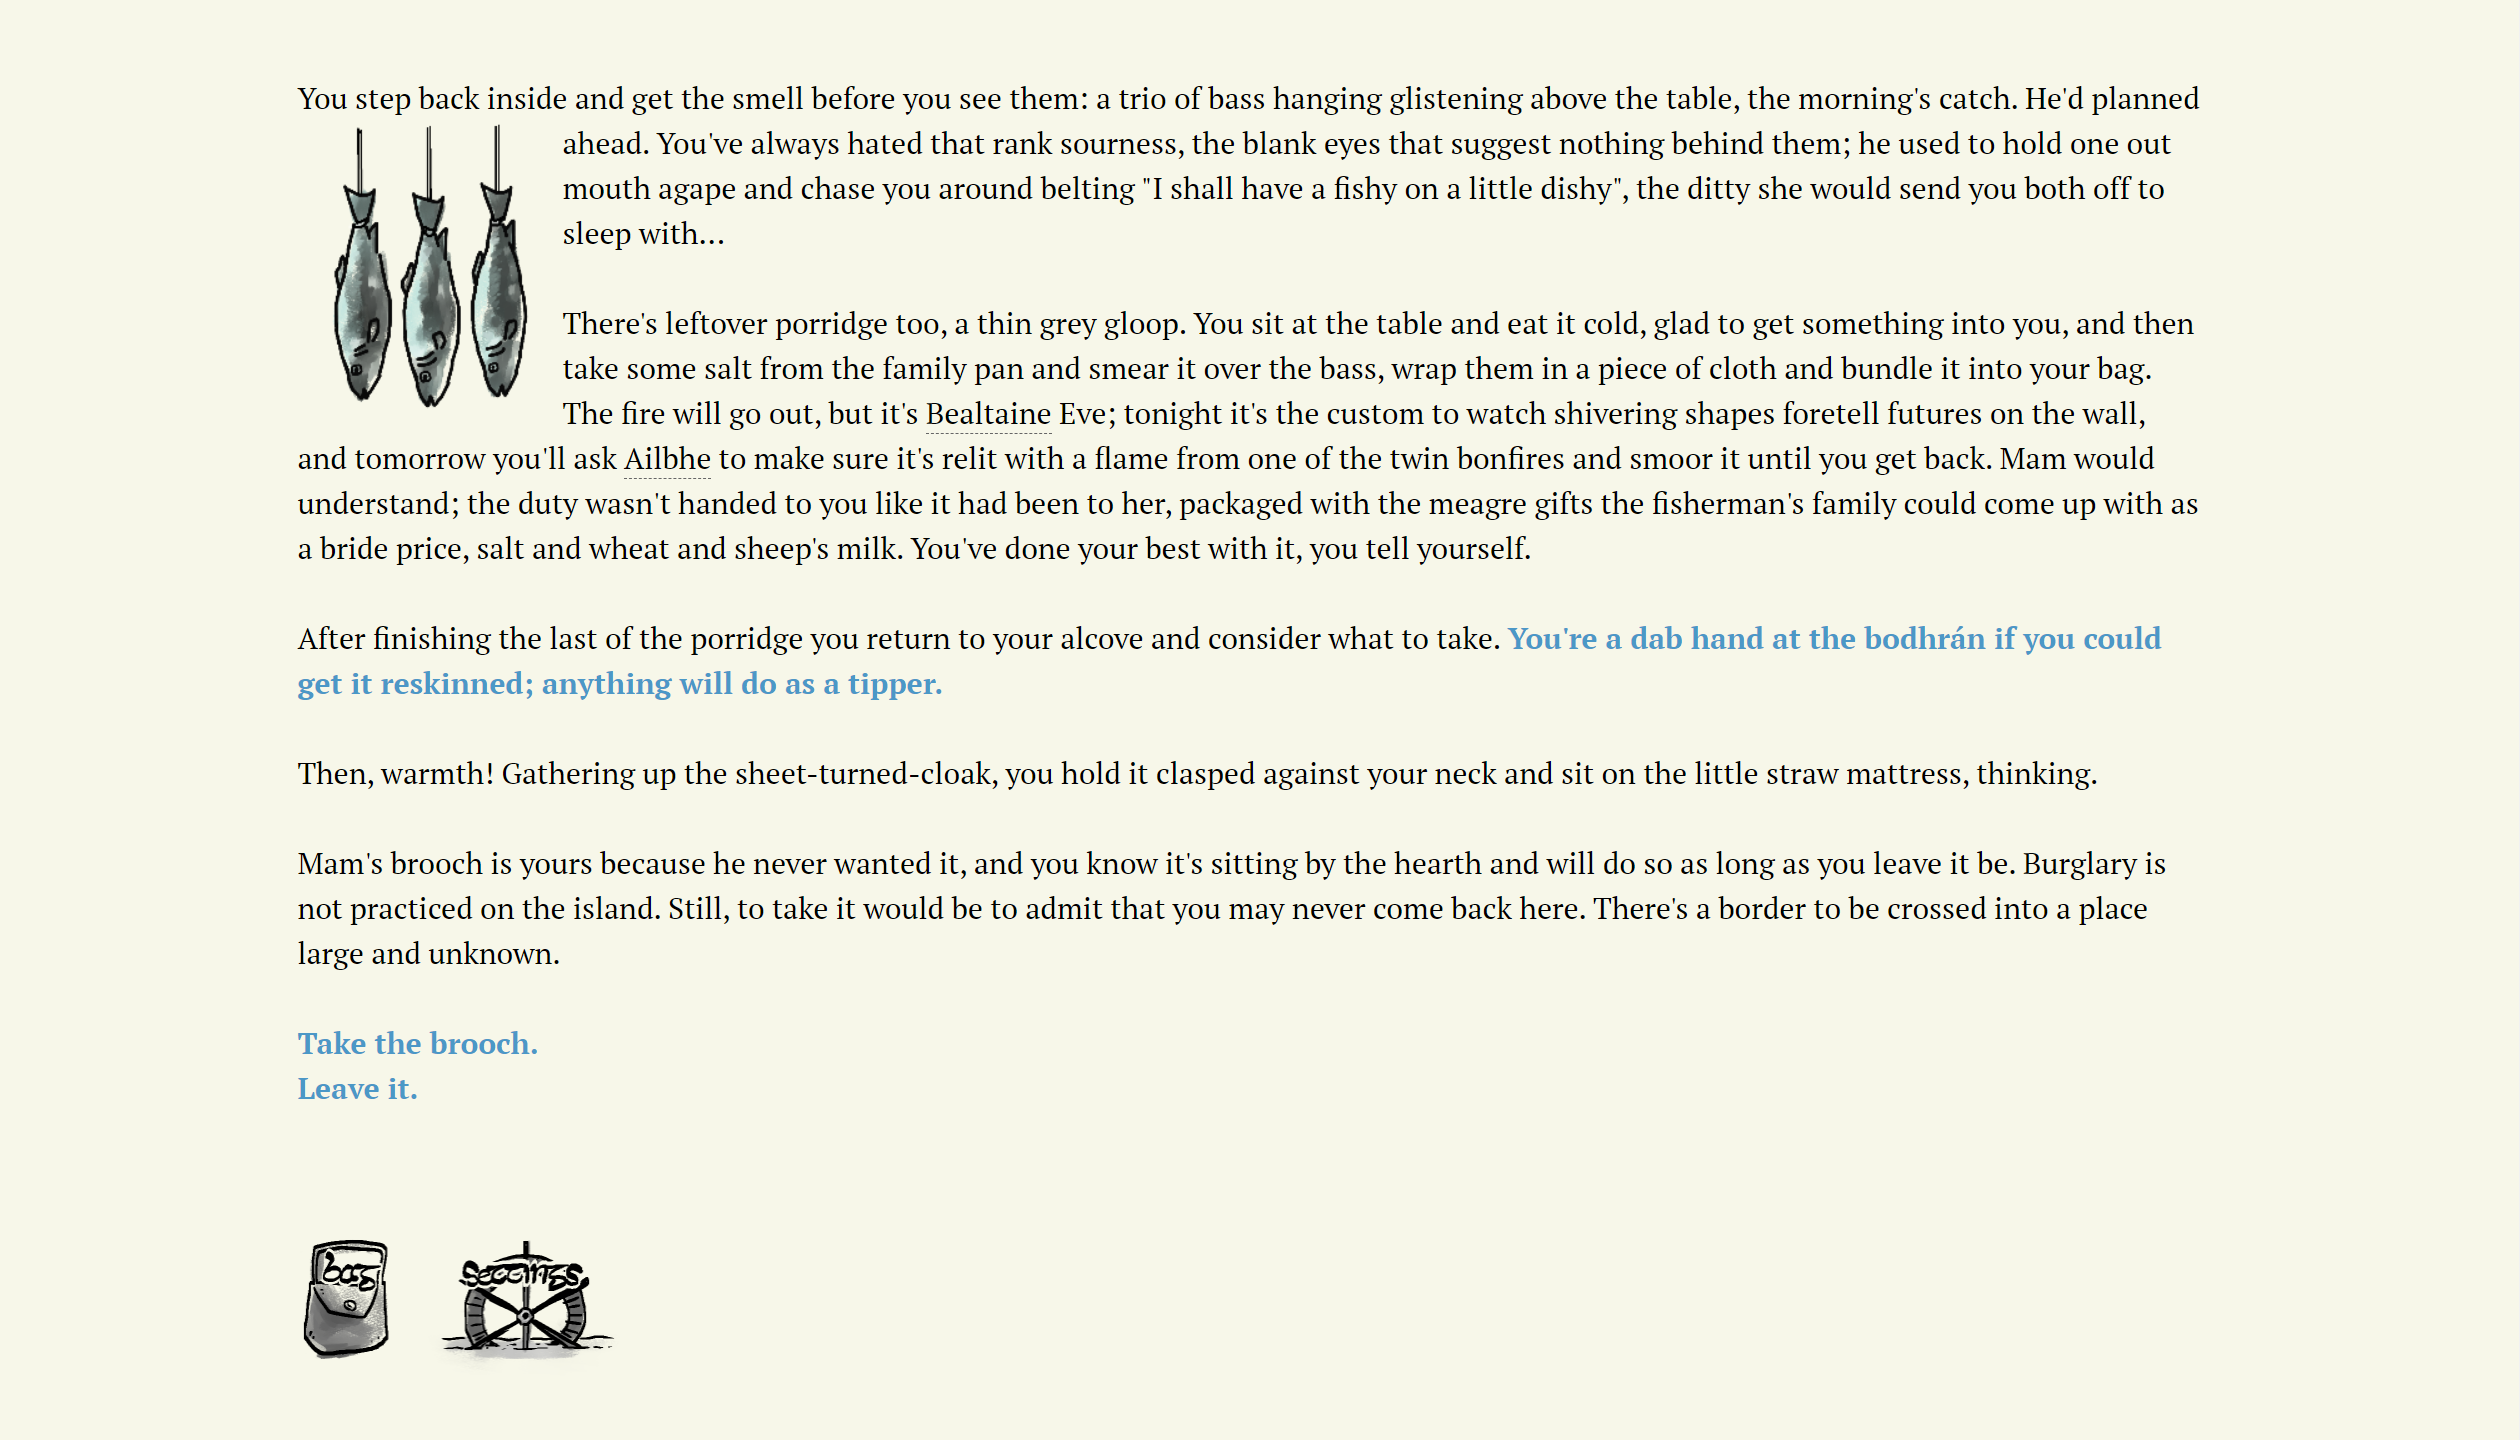
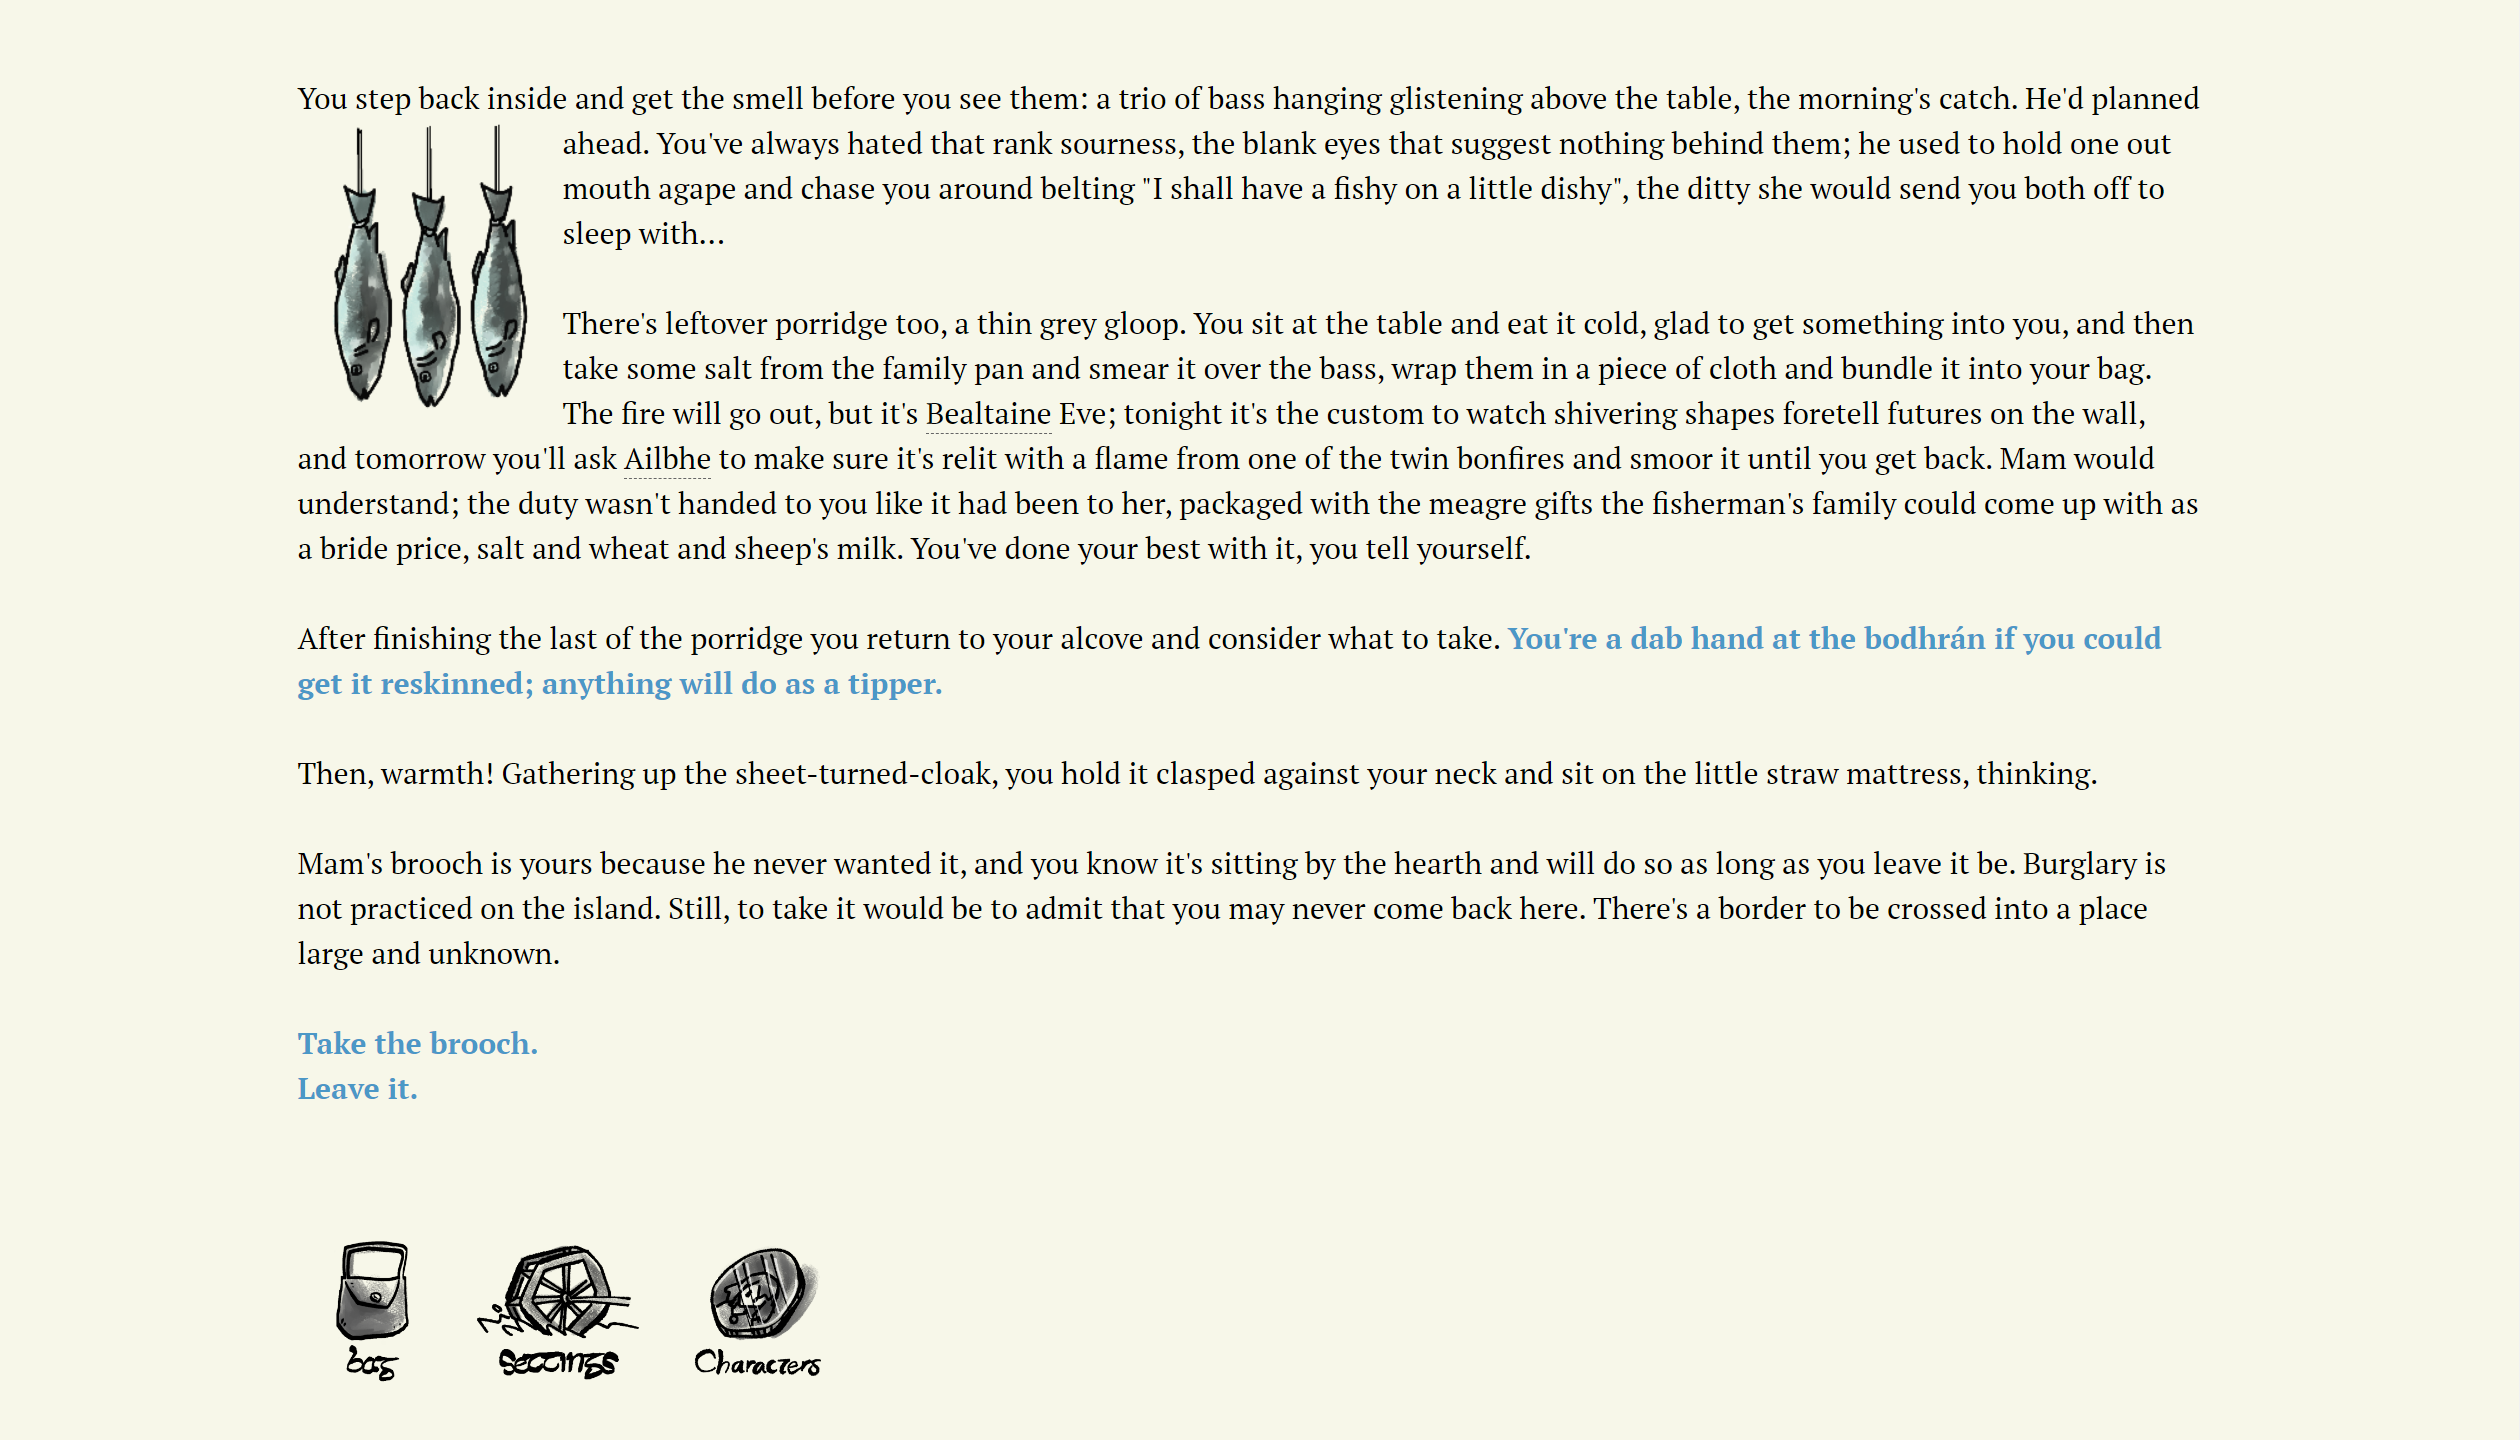
alltarach_icon_update

Changed region(s): [[0.1238, 0.8438, 0.2476, 0.9688], [0.2786, 0.8438, 0.3405, 0.9688]]

diff --git a/index.html b/index.html
@@ -463,9 +463,9 @@ The final version is a creature I imagine to be somewhere between a badger and a
 <!--  -->
 
 	  <p class="clear-paragraph">
-	  I also designed icons for Inventory and Settings. I wanted something that fit the style and time period of the game, while still clearly communicating what they are.
+	  I also designed icons for Inventory, Settings and Character menus. I wanted something that fit the style and time period of the game, while still clearly communicating what they are.
 	  <br><br>
-	  The bag was simple enough, "Settings" was more complicated. The universal icon for settings is a cog - but cogs are too modern. I thought of water wheels - similar, but older. I painted them both in greyscale, so they'd be different from the chapter illustrations without standing out too much. Handwrote descriptive text in insular script. The text lights up in red when you hover, consistent with the main menu.
+	  The bag was simple enough, "Settings" was more complicated. The universal icon for settings is a cog - but cogs are too modern. I thought of water wheels - similar, but older. Finally, a mirror for the Character list. Handwrote descriptive text in insular script. The text lights up in red when you hover, consistent with the main menu.
 <br><br>
       </p>
 	  
